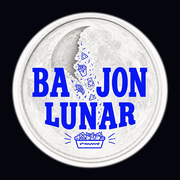
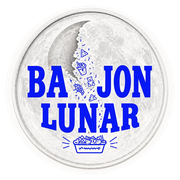
update

diff --git a/admin-panel-completo_v10.html b/admin-panel-completo_v10.html
@@ -8,11 +8,7 @@
 <meta name="apple-mobile-web-app-status-bar-style" content="black-translucent">
 <meta name="apple-mobile-web-app-title" content="Bajón Lunar">
 <meta name="theme-color" content="#05050E">
-<link rel="apple-touch-icon" href="https://ingalejandrofh01-boop.github.io/Bajon-Lunar/icon-180.png?v=2">
-<link rel="apple-touch-icon" sizes="180x180" href="https://ingalejandrofh01-boop.github.io/Bajon-Lunar/icon-180.png?v=2">
-<link rel="apple-touch-icon" sizes="152x152" href="https://ingalejandrofh01-boop.github.io/Bajon-Lunar/icon-192.png?v=2">
-<link rel="apple-touch-icon" sizes="120x120" href="https://ingalejandrofh01-boop.github.io/Bajon-Lunar/icon-192.png?v=2">
-<link rel="icon" type="image/png" href="https://ingalejandrofh01-boop.github.io/Bajon-Lunar/icon-192.png?v=2">
+<link rel="apple-touch-icon" href="icon-180.png">
 
 <title>Bajón Lunar — Panel Admin</title>
 <link rel="preconnect" href="https://fonts.googleapis.com">